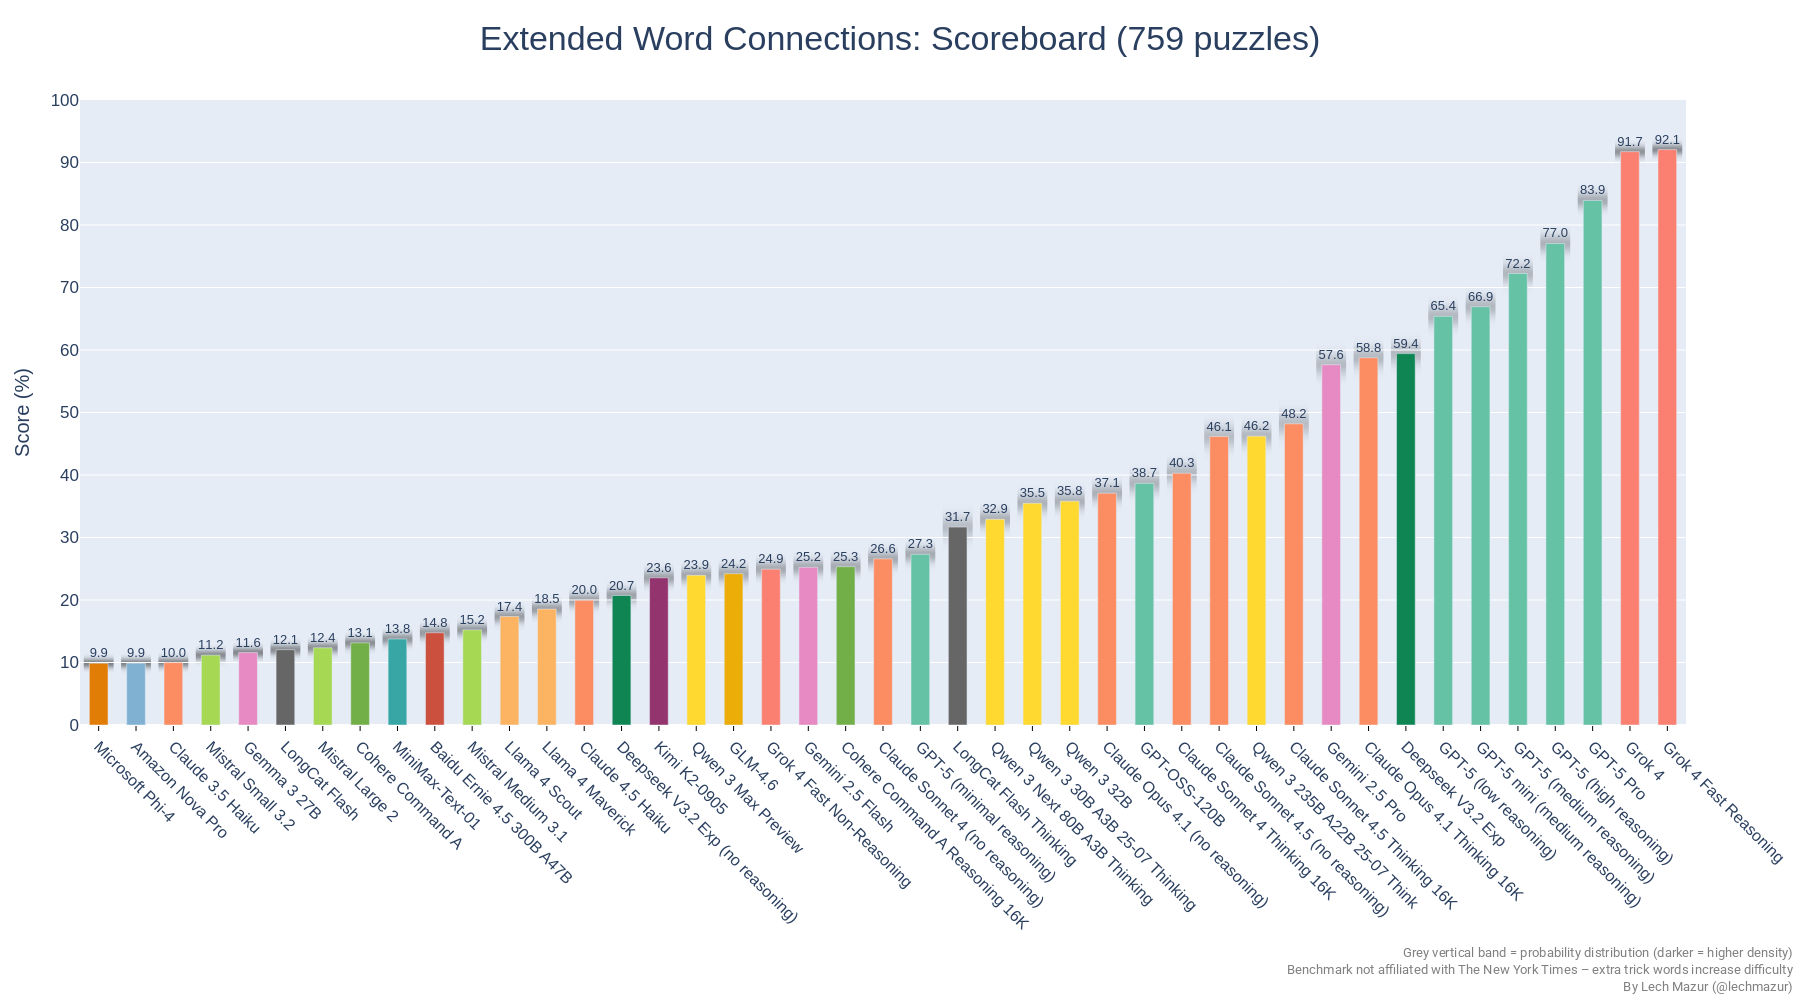
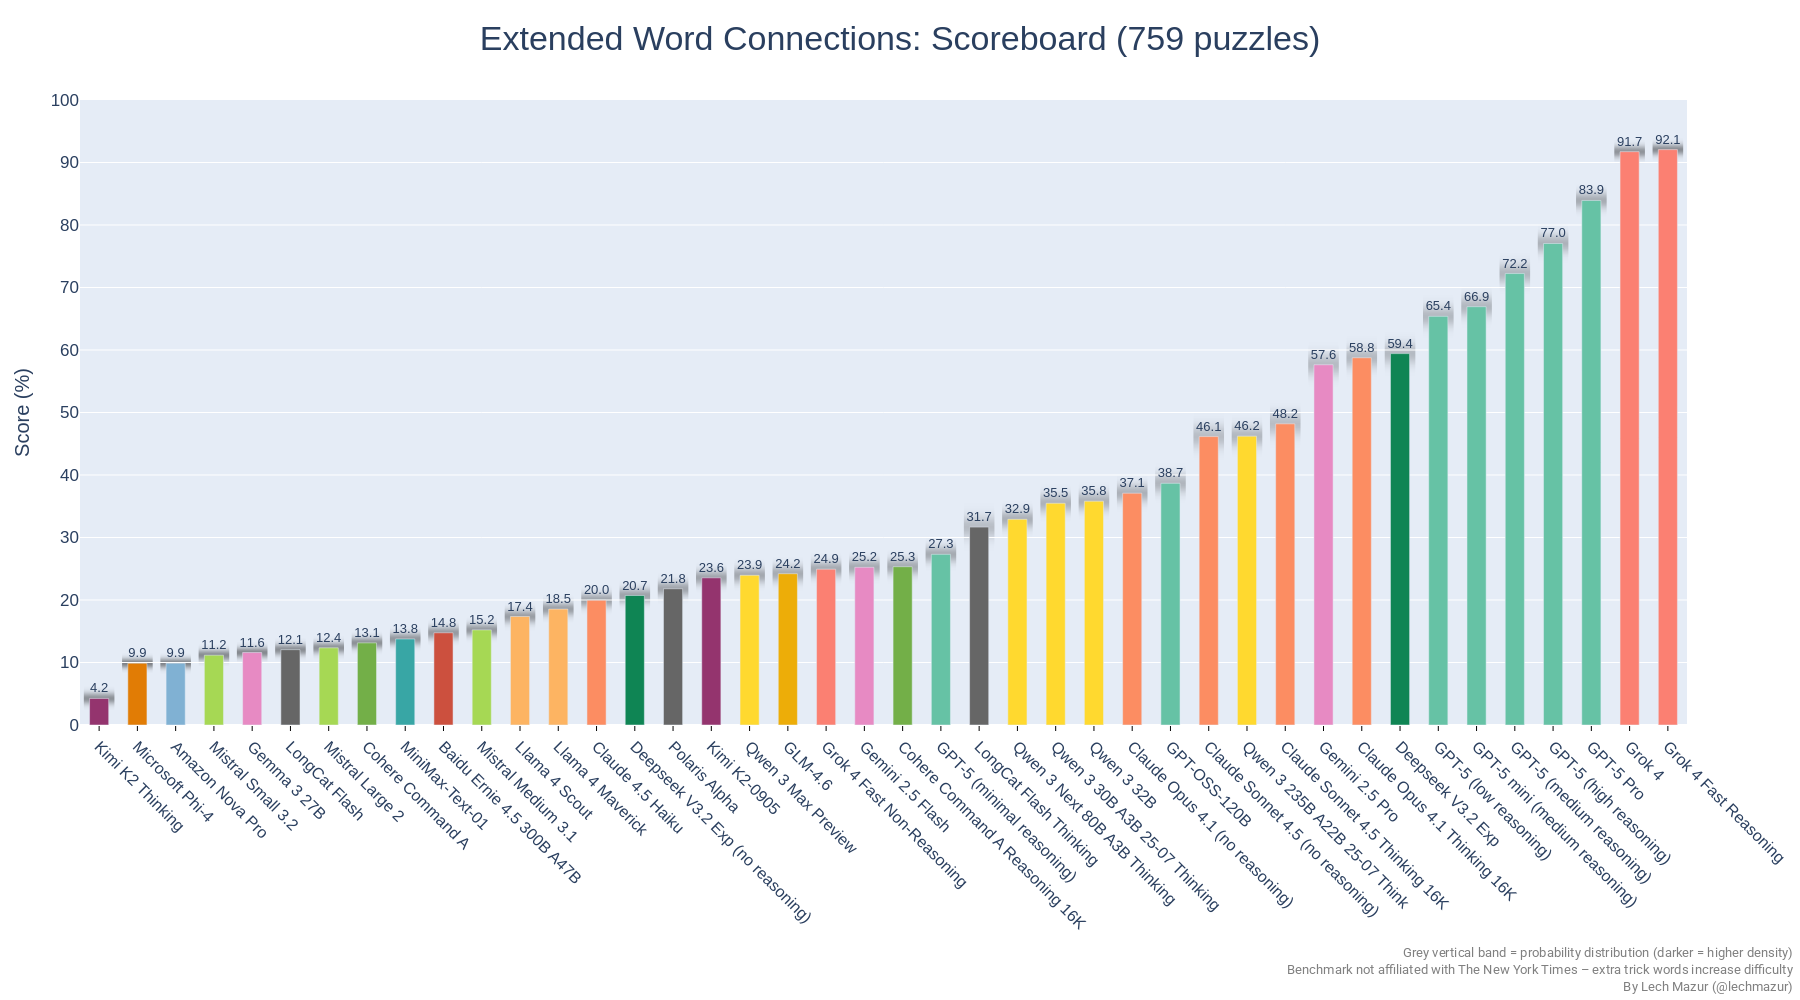
Kimi K2 Thinking added

Changed region(s): [[0.0311, 0.186, 0.9644, 0.93], [0.9644, 0.837, 0.9956, 0.868], [0.4356, 0.899, 0.4667, 0.93]]

diff --git a/README.md b/README.md
@@ -73,50 +73,52 @@ As of Feb 4, 2025, there is a new version of the benchmark. The standard NYT Con
 |59|GPT-4.1|22.8|759|
 |60|Sonoma Dusk Alpha|22.8|759|
 |61|GPT-4o Feb 2025|22.7|651|
-|62|Gemini 2.0 Pro Exp 02-05|21.7|651|
-|63|DeepSeek V3.1 Non-Think|21.6|759|
-|64|MiniMax-M1|21.3|688|
-|65|Deepseek V3.2 Exp (no reasoning)|20.7|759|
-|66|Claude 4.5 Haiku|20.0|759|
-|67|Kimi K2|19.8|759|
-|68|Qwen 3 235B A22B 25-07 Instruct|19.8|759|
-|69|Grok 3 Beta (no reasoning)|19.7|759|
-|70|Grok 2 12-12|19.2|651|
-|71|Gemini 1.5 Pro (Sept)|19.2|601|
-|72|Claude 3 Opus|19.2|650|
-|73|Claude 3.7 Sonnet|19.2|651|
-|74|Gemini 2.0 Flash|18.8|651|
-|75|GPT-4o 2024-11-20|18.7|601|
-|76|Llama 4 Maverick|18.5|759|
-|77|Qwen 2.5 Max|18.0|651|
-|78|GPT-4o 2024-08-06|17.8|601|
-|79|Claude 3.5 Sonnet 2024-10-22|17.7|651|
-|80|Llama 4 Scout|17.4|759|
-|81|DeepSeek V3-0324|16.8|759|
-|82|Llama 3.1 405B|16.2|651|
-|83|Mistral Medium 3.1|15.2|759|
-|84|DeepSeek V3|15.1|651|
-|85|Llama 3.3 70B|15.1|651|
-|86|Baidu Ernie 4.5 300B A47B|14.8|759|
-|87|GPT-4.1 mini|14.4|759|
-|88|MiniMax-Text-01|13.8|759|
-|89|Cohere Command A|13.1|759|
-|90|Mistral Large 2|12.4|759|
-|91|Gemma 2 27B|12.2|651|
-|92|LongCat Flash|12.1|759|
-|93|Gemma 3 27B|11.6|759|
-|94|Mistral Medium 3|11.5|759|
-|95|Mistral Small 3.1|11.4|651|
-|96|Mistral Small 3.2|11.2|759|
-|97|Qwen 2.5 72B|10.5|759|
-|98|Claude 3.5 Haiku|10.0|759|
-|99|Amazon Nova Pro|9.9|759|
-|100|Microsoft Phi-4|9.9|759|
-|101|GPT-4o mini|9.7|759|
-|102|Mistral Small 3|8.9|601|
-|103|GPT-4.1 nano|8.1|759|
-|104|GLM4-32B-0414|7.6|759|
-|105|Claude 3 Haiku|2.2|601|
+|62|Polaris Alpha|21.8|759|
+|63|Gemini 2.0 Pro Exp 02-05|21.7|651|
+|64|DeepSeek V3.1 Non-Think|21.6|759|
+|65|MiniMax-M1|21.3|688|
+|66|Deepseek V3.2 Exp (no reasoning)|20.7|759|
+|67|Claude 4.5 Haiku|20.0|759|
+|68|Kimi K2|19.8|759|
+|69|Qwen 3 235B A22B 25-07 Instruct|19.8|759|
+|70|Grok 3 Beta (no reasoning)|19.7|759|
+|71|Grok 2 12-12|19.2|651|
+|72|Gemini 1.5 Pro (Sept)|19.2|601|
+|73|Claude 3 Opus|19.2|650|
+|74|Claude 3.7 Sonnet|19.2|651|
+|75|Gemini 2.0 Flash|18.8|651|
+|76|GPT-4o 2024-11-20|18.7|601|
+|77|Llama 4 Maverick|18.5|759|
+|78|Qwen 2.5 Max|18.0|651|
+|79|GPT-4o 2024-08-06|17.8|601|
+|80|Claude 3.5 Sonnet 2024-10-22|17.7|651|
+|81|Llama 4 Scout|17.4|759|
+|82|DeepSeek V3-0324|16.8|759|
+|83|Llama 3.1 405B|16.2|651|
+|84|Mistral Medium 3.1|15.2|759|
+|85|DeepSeek V3|15.1|651|
+|86|Llama 3.3 70B|15.1|651|
+|87|Baidu Ernie 4.5 300B A47B|14.8|759|
+|88|GPT-4.1 mini|14.4|759|
+|89|MiniMax-Text-01|13.8|759|
+|90|Cohere Command A|13.1|759|
+|91|Mistral Large 2|12.4|759|
+|92|Gemma 2 27B|12.2|651|
+|93|LongCat Flash|12.1|759|
+|94|Gemma 3 27B|11.6|759|
+|95|Mistral Medium 3|11.5|759|
+|96|Mistral Small 3.1|11.4|651|
+|97|Mistral Small 3.2|11.2|759|
+|98|Qwen 2.5 72B|10.5|759|
+|99|Claude 3.5 Haiku|10.0|759|
+|100|Amazon Nova Pro|9.9|759|
+|101|Microsoft Phi-4|9.9|759|
+|102|GPT-4o mini|9.7|759|
+|103|Mistral Small 3|8.9|601|
+|104|GPT-4.1 nano|8.1|759|
+|105|GLM4-32B-0414|7.6|759|
+|106|Kimi K2 Thinking|4.2|759|
+|107|Claude 3 Haiku|2.2|601|
 
 
 
@@ -229,6 +231,7 @@ This benchmark evaluates large language models (LLMs) using 436 NYT Connections 
 ---
 
 ## Updates
+- Nov 12, 2025: Kimi K2 Thinking added.
 - Oct 15, 2025: Claude Haiku 4.5 added.
 - Oct 14, 2025: Claude Sonnet 4.5, Deepseek V3.2 Exp, GLM-4.6 added.
 - Sep 19, 2025: Grok 4 Fast, Qwen 3 Next 80B A3B Thinking, LongCat Flash Chat added.
